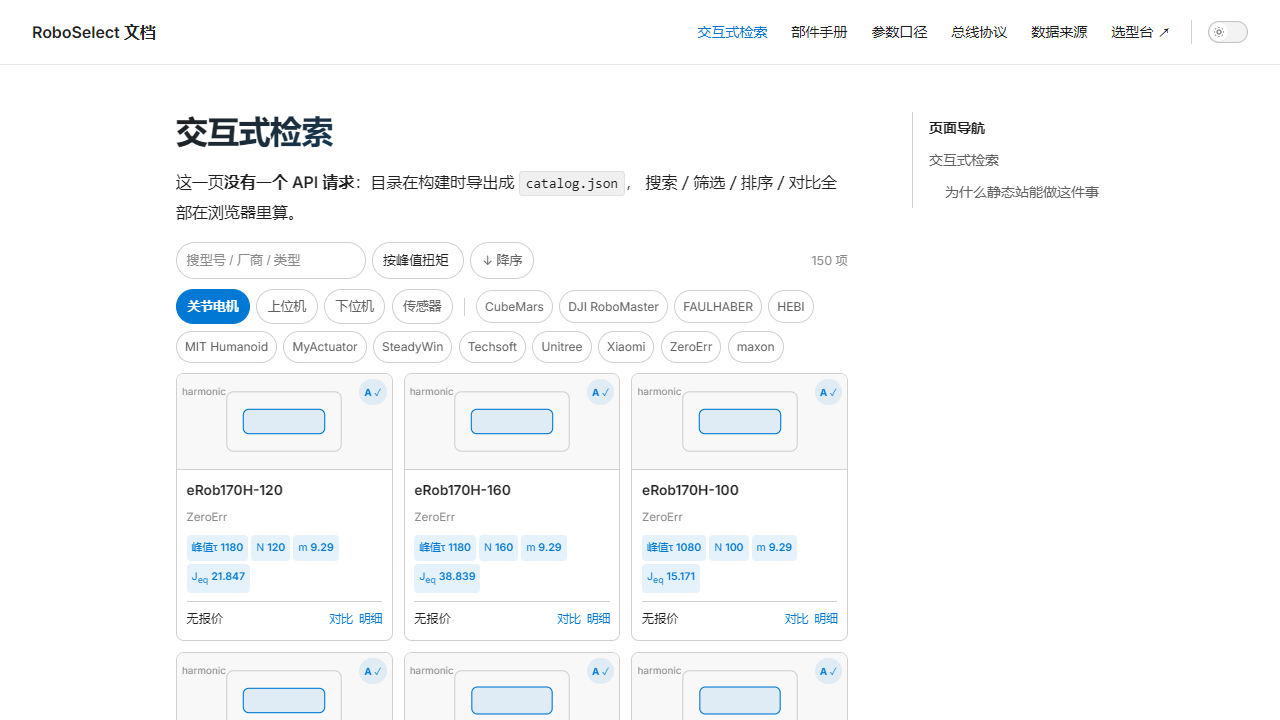
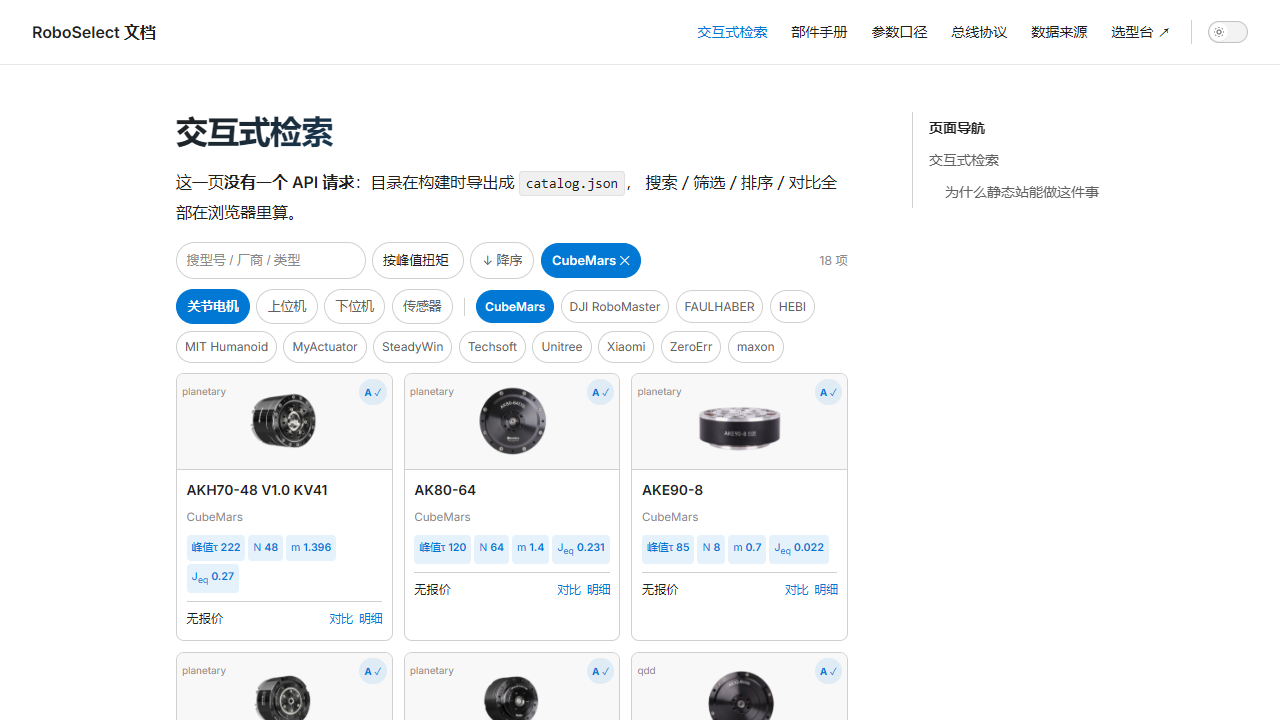
fix(wiki): 静态检索页的产品图
图片在 frontend/public/parts，文档站 public 里没有 -> 线上全裂。
build_wiki.py 构建时同步到 wiki/docs/public/parts（76 张），
两棵树各自可独立部署，不靠相对路径引用对方。

diff --git a/scripts/build_wiki.py b/scripts/build_wiki.py
@@ -148,6 +148,21 @@ def main() -> None:
         encoding="utf-8")
     print(f"  静态目录 {len(digest)} 条 / {(pub / 'catalog.json').stat().st_size // 1024} KB")
 
+    # 产品图：从 frontend/public/parts 复制到文档站的 public。
+    # 两站要能各自独立部署，所以不能靠相对路径引用另一棵树。
+    src_img = ROOT / "frontend" / "public" / "parts"
+    dst_img = pub / "parts"
+    copied = 0
+    if src_img.exists():
+        dst_img.mkdir(parents=True, exist_ok=True)
+        for f in src_img.iterdir():
+            if f.is_file() and f.suffix.lower() in (".jpg", ".jpeg", ".png", ".webp"):
+                target = dst_img / f.name
+                if not target.exists() or target.stat().st_mtime < f.stat().st_mtime:
+                    target.write_bytes(f.read_bytes())
+                    copied += 1
+    print(f"  产品图同步 {copied} 张（共 {len(list(dst_img.glob('*'))) if dst_img.exists() else 0} 张）")
+
     sidebar: dict[str, list] = {}
     n_act = sum(1 for r in rows if r["category"] == "actuator")
     n_img = sum(1 for r in rows if (r.get("specs") or {}).get("image_url"))
